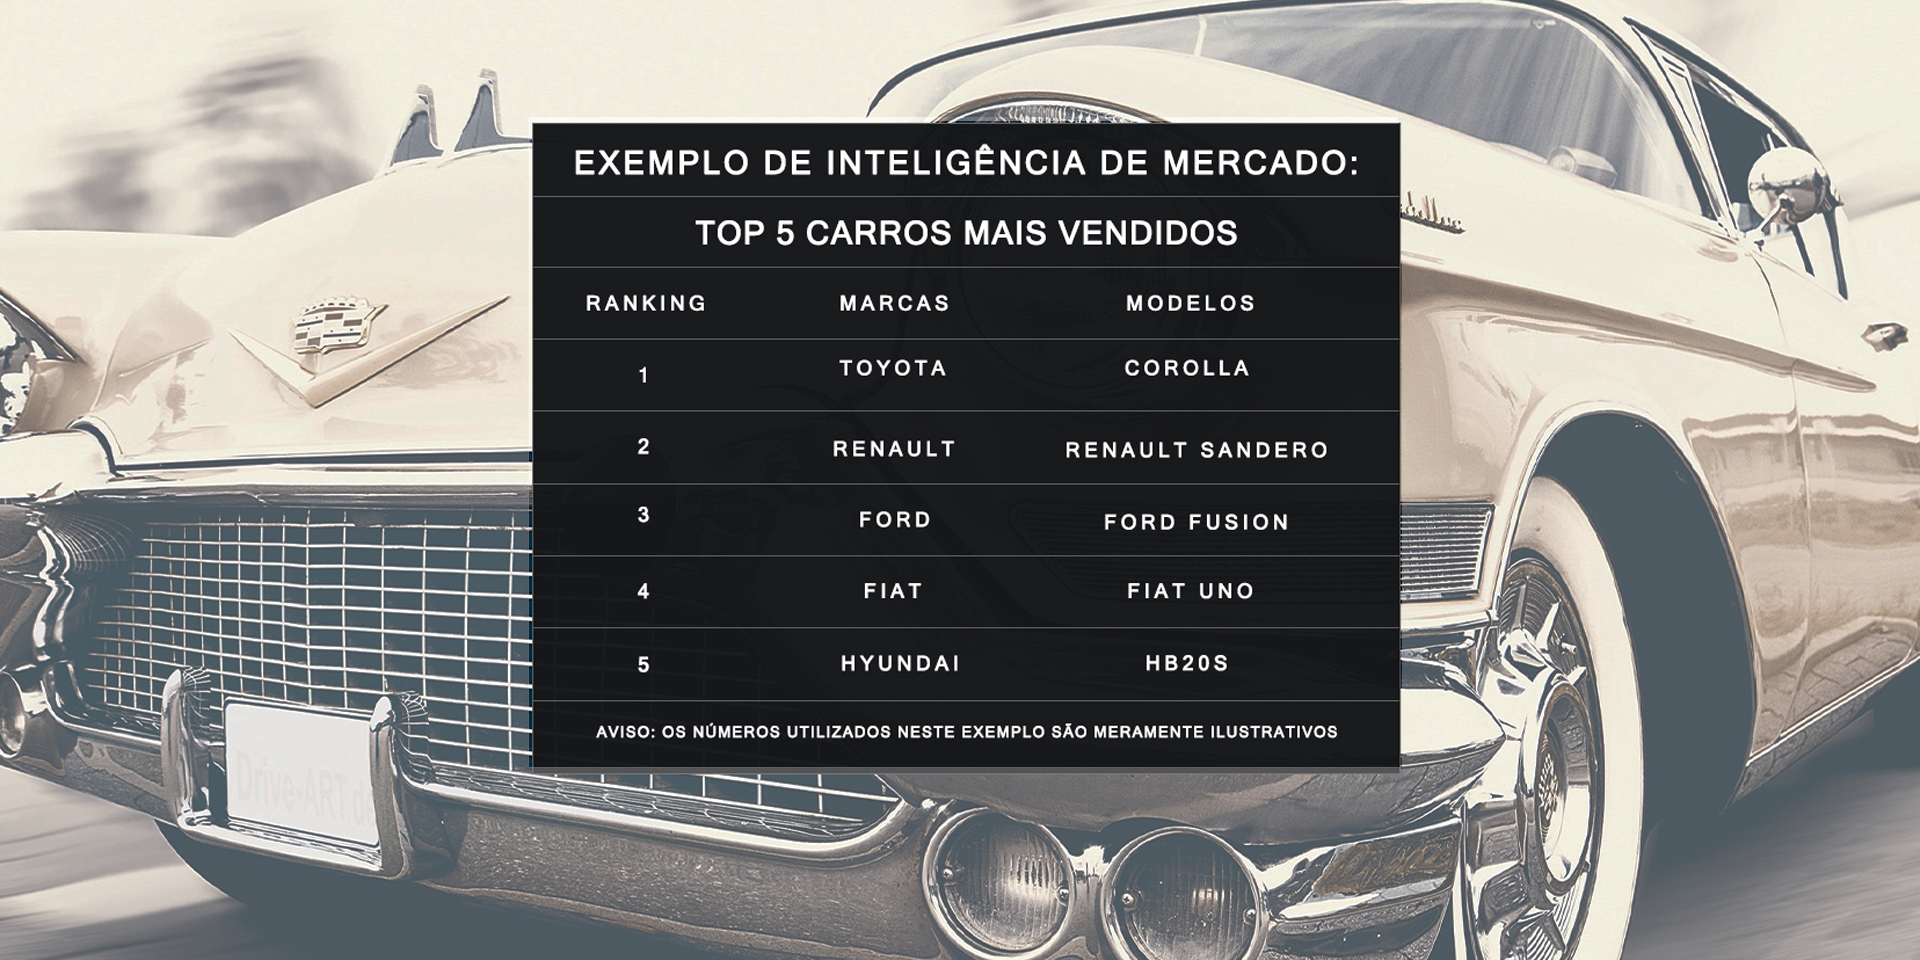
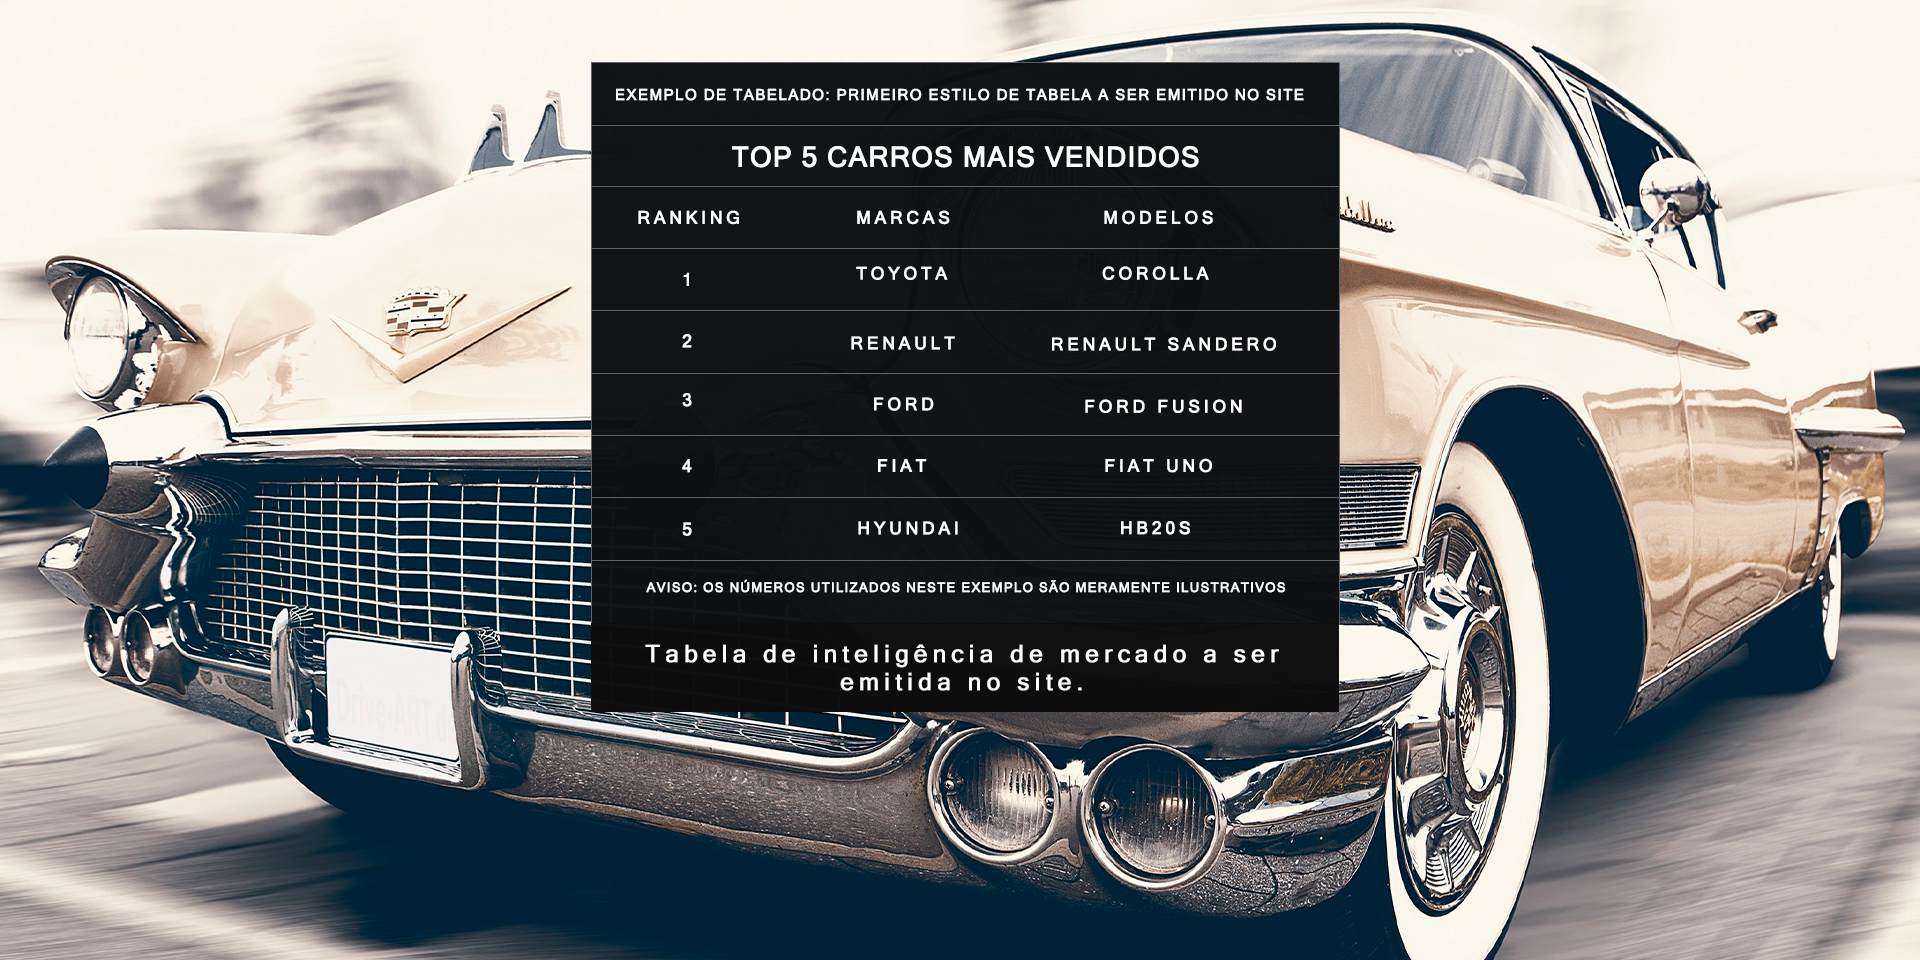
centralizei tudo nos slides

diff --git a/FlaskCodePacote/Templates/Homepage.html b/FlaskCodePacote/Templates/Homepage.html
@@ -33,14 +33,14 @@
       <img class="d-block w-100" src="{{ url_for('static', filename='imagens/Homepage-Slide03.jpg')}}" alt="Terceiro Slide" style="opacity: 1;">
       <div class="col-lg mx-auto text-center carousel-caption d-lg-block"  style="margin-bottom: .6vw;">
           <h5 class="text-center" style="color:white; font-size: 3vw;"></h5>
-          <p class="text-center mx-auto" style="font-size: 1.4vw; letter-spacing: 3px; background-color: black; opacity: .9;"> Tabela de inteligência de mercado a ser emitida no site</p> 
+          <p class="text-center mx-auto d-none" style="font-size: 1.4vw; letter-spacing: 3px; background-color: black; opacity: .9;"> Tabela de inteligência de mercado a ser emitida no site</p> 
       </div>
     </div>
     <div class="carousel-item" style="height: auto; max-height: 900px;">
       <img class="d-block w-100" src="{{ url_for('static', filename='imagens/Homepage-Slide04.jpg')}}" alt="Quarto Slide" style="opacity: 1">
       <div class="carousel-caption d-lg-block text-center">
     <h5 style="color:white; font-size: 2.5vw;"></h5>
-        <ol style="font-size: 1.2vw; letter-spacing: 1px; list-style: none; margin-bottom: 3vw;">
+        <ol class="d-none" style="font-size: 1.2vw; letter-spacing: 1px; list-style: none; margin-bottom: 3vw;">
           <li>Em seguida, emitiremos uma análise preditiva cuja finalidade é</li> 
           <li>encontrar relações matemáticas entre as variáveis (ex: preço x km rodado)</li>
         </ol>

diff --git a/FlaskCodePacote/Templates/TerceiraJanela.html b/FlaskCodePacote/Templates/TerceiraJanela.html
@@ -110,7 +110,7 @@
     <div class="container-fluid mx-auto my-0 py-1 bg-dark text-center" style="height: auto; width: 100%; letter-spacing: 3px; opacity: 1; font-size: 25px;">
     <p>Tabelas de Inteligência de Mercado</p>
     </div>
-<div class="container-fluid my-0 px-auto mx-0" style="background-image: url(static/imagens/TerceiraJanela-Background02.jpg); background-size: contain; background-repeat: repeat; height: auto; width: 100%; margin: -35px auto 0;">
+<div class="container-fluid my-0 px-auto mx-0" style="background-image: url(static/imagens/TerceiraJanela-Background02.jpg); background-size: cover; background-repeat: repeat; height: auto; width: 100%; margin: -35px auto 0;">
     <div class="row p-5 mx-auto" style="width: 100%;">
     <div class="col-lg-6">
     	<div class="pt-4" id="TabelaModelo">			

diff --git a/FlaskCodePacote/Templates/SegundaJanela.html b/FlaskCodePacote/Templates/SegundaJanela.html
@@ -1,7 +1,7 @@
 {% extends "Layout.html" %}
 {% block content %}
 <body>
-    <div class="container-fluid" style="background-image: url(static/imagens/Inserir-Dados-Background.jpg); background-size: cover; height: auto; margin: -35px auto -50px; padding: 20% 0;">
+    <div class="container-fluid" style="background-image: url(static/imagens/Inserir-Dados-Background.jpg); background-size: cover; background-repeat: no-repeat; height: auto; margin: -35px auto -50px; padding: 20% 0;">
     <div class= "content-section  mx-auto bg-dark" style="min-width: 300px; max-width: 35%; opacity: .9; letter-spacing: 2px;">
         Por favor, preencha o formulário abaixo com as informações do carro vendido. Para assim sermos capazes de fornecer um serviço cada vez melhor. 
     </div>
